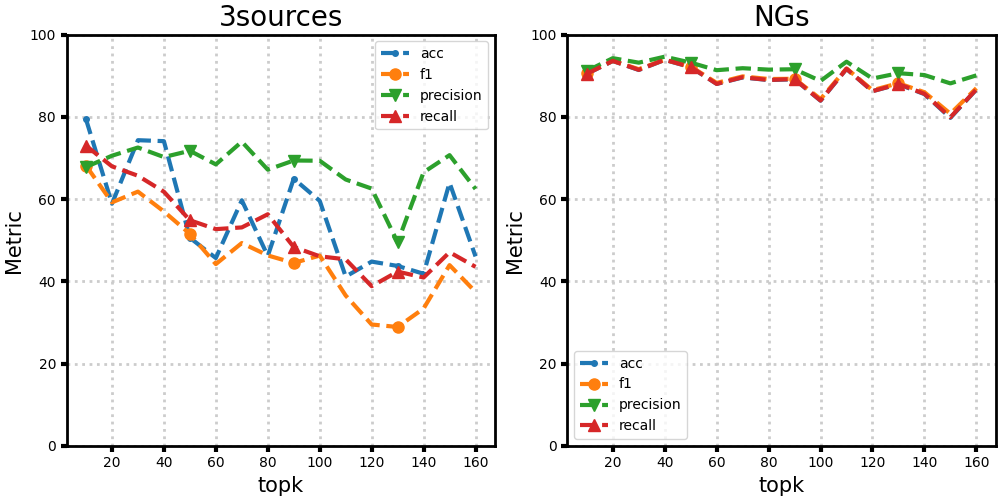
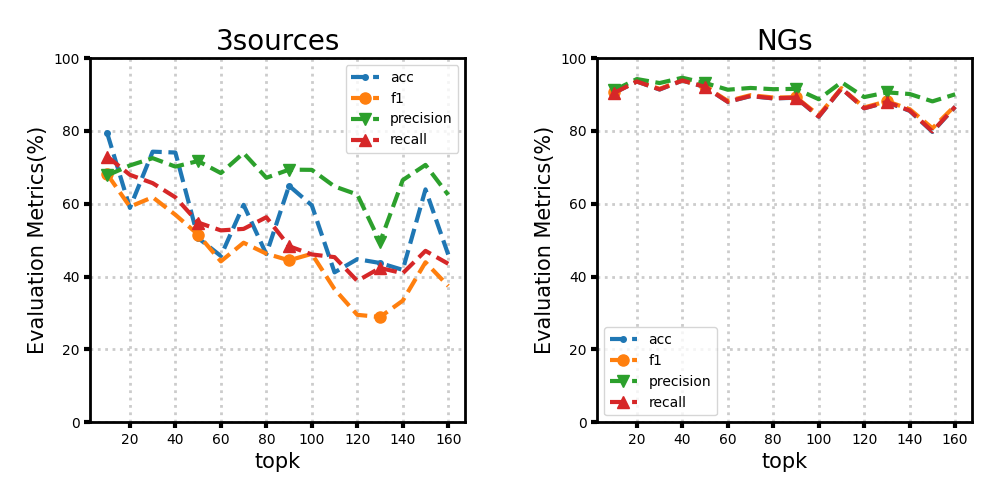
modify plot_parameters.py/adjust tight_layout

diff --git a/plot_parameters.py b/plot_parameters.py
@@ -24,7 +24,7 @@ def plot_dataset_to_df(dataset_to_df, layout=None, field_check='val_metric_', sh
         layout = (1,num_dataset)
 
     # set figure layout
-    fig, axes = plt.subplots(nrows=layout[0], ncols=layout[1], figsize=(layout[1]*5, layout[0]*5), layout='constrained')
+    fig, axes = plt.subplots(nrows=layout[0], ncols=layout[1], figsize=(layout[1]*5, layout[0]*5))
     if layout[0] == 1 and layout[1] == 1:
         axes = [axes]
     elif layout[0] > 1 and layout[1] > 1:
@@ -46,13 +46,14 @@ def plot_dataset_to_df(dataset_to_df, layout=None, field_check='val_metric_', sh
             filter_df.iloc[:,1:] = filter_df.iloc[:,1:] * 100
         ax: plt.Axes = mplot.plot_lines_with_compare_data(ax=axes[i],x=filter_df,
                                            xlabel=filter_df.columns[0],
-                                           ylabel='Metric',
+                                           ylabel='Evaluation Metrics(%)',
                                            title=dataset_name,
                                            markevery=4)
         # set y-lim to [0,100]
         ax.set_ylim(0,100)
         # set legend
         ax.legend()
+    plt.tight_layout(pad=2, h_pad=5, w_pad=5)
     plt.savefig(f'./parameters/{filter_df.columns[0]}.png')
     if show:
         plt.show()
